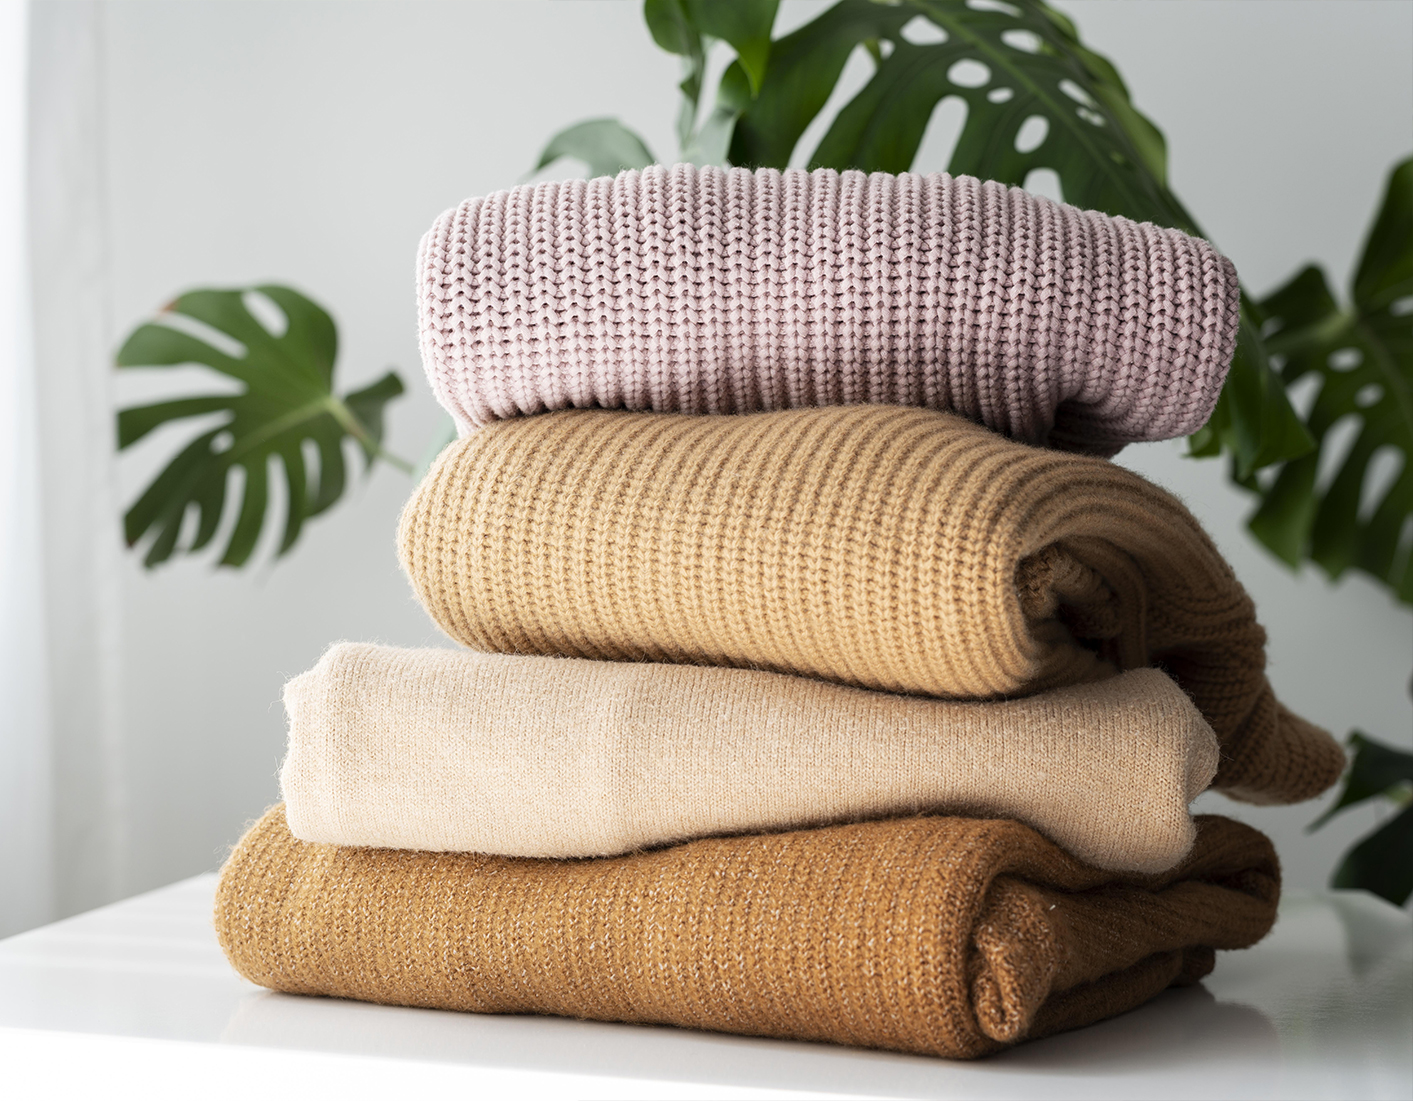
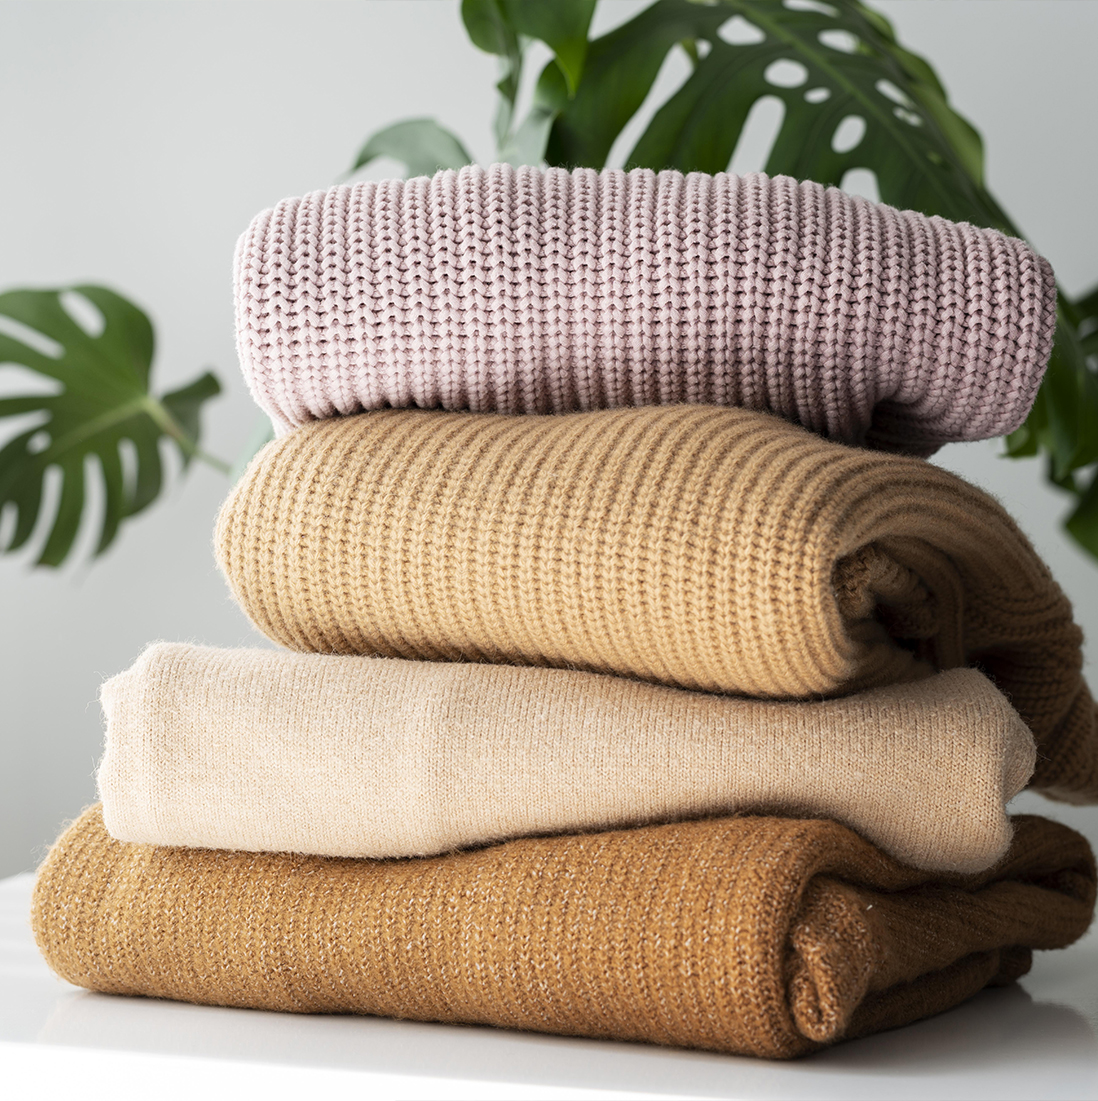
commit agrego img

diff --git a/index.html b/index.html
@@ -66,7 +66,7 @@
 
   <main id="main">
 
-<!-- ======= Hero Section ======= -->
+<!-- ======= Hero Section ======= 
   <section id="hero" class="d-flex align-items-center">
     <div class="container" data-aos="zoom-out" data-aos-delay="100">
       <div class="row">
@@ -83,6 +83,31 @@
 
   </section><!-- End Hero -->
 
+    <!-- ======= Hero Section ======= -->
+<section id="hero" class="d-flex align-items-center">
+
+  <div class=""> <!--data-aos="zoom-out" data-aos-delay="100">-->
+    <div class="rowhero">
+
+      <div class="col-xl-6">
+        <h1>Vestite cuidando
+          <br> medio ambiente
+        </h1>
+        <div class="subtitulo-hero col-xl-8">
+          <h2>Unite al club de moda y sustentabilidad más completo
+            y comenzá a recibir mensualmente tus cajas de ropa.<!--<span class="marca">Club</span>--></h2>
+        </div>
+        <a class="btn-get-started" href="#pricing">Ver suscripciones</a>
+        <!-- <a href="#about" class="btn-get-started scrollto">Get Started</a>-->
+      </div>
+
+      <div class="col-xl-7 d-flex justify-content-end">
+        <img src="assets/img/hero-bg.jpg" class="img-hero" alt="#">
+      </div>
+    </div>
+  </div>
+
+</section><!-- End Hero -->
     
     <!-- ======= Banner Section ======= -->
     <section id="banner" class="tabs">
@@ -1015,31 +1040,6 @@
   </main><!-- End #main -->
 
 
-  <!-- ======= Hero Section ======= -->
-<section id="hero" class="d-flex align-items-center">
-
-  <div class="container"> <!--data-aos="zoom-out" data-aos-delay="100">-->
-    <div class="rowhero">
-
-      <div class="col-xl-6">
-        <h1>Vestite cuidando
-          el medio ambiente
-        </h1>
-        <div class="subtitulo-hero col-xl-8">
-          <h2>Unite al club de moda y sustentabilidad más completo
-            y comenzá a recibir mensualmente tus cajas de ropa.<!--<span class="marca">Club</span>--></h2>
-        </div>
-        <a class="btn-get-started" href="#pricing">Ver suscripciones</a>
-        <!-- <a href="#about" class="btn-get-started scrollto">Get Started</a>-->
-      </div>
-
-      <div class="col-xl-6 d-flex justify-content-end">
-        <img src="assets/img/hero-bg.jpg" class="img-hero" alt="#">
-      </div>
-    </div>
-  </div>
-
-</section><!-- End Hero -->
 
 
 <!-- ======= Team Section ======= -->

diff --git a/assets/css/style.css b/assets/css/style.css
@@ -437,7 +437,7 @@ li {
   padding-top: 20px;
 }
 .img-hero {
-  max-width: 150%;
+  max-width: 100%;
   height: auto;
 
 }
